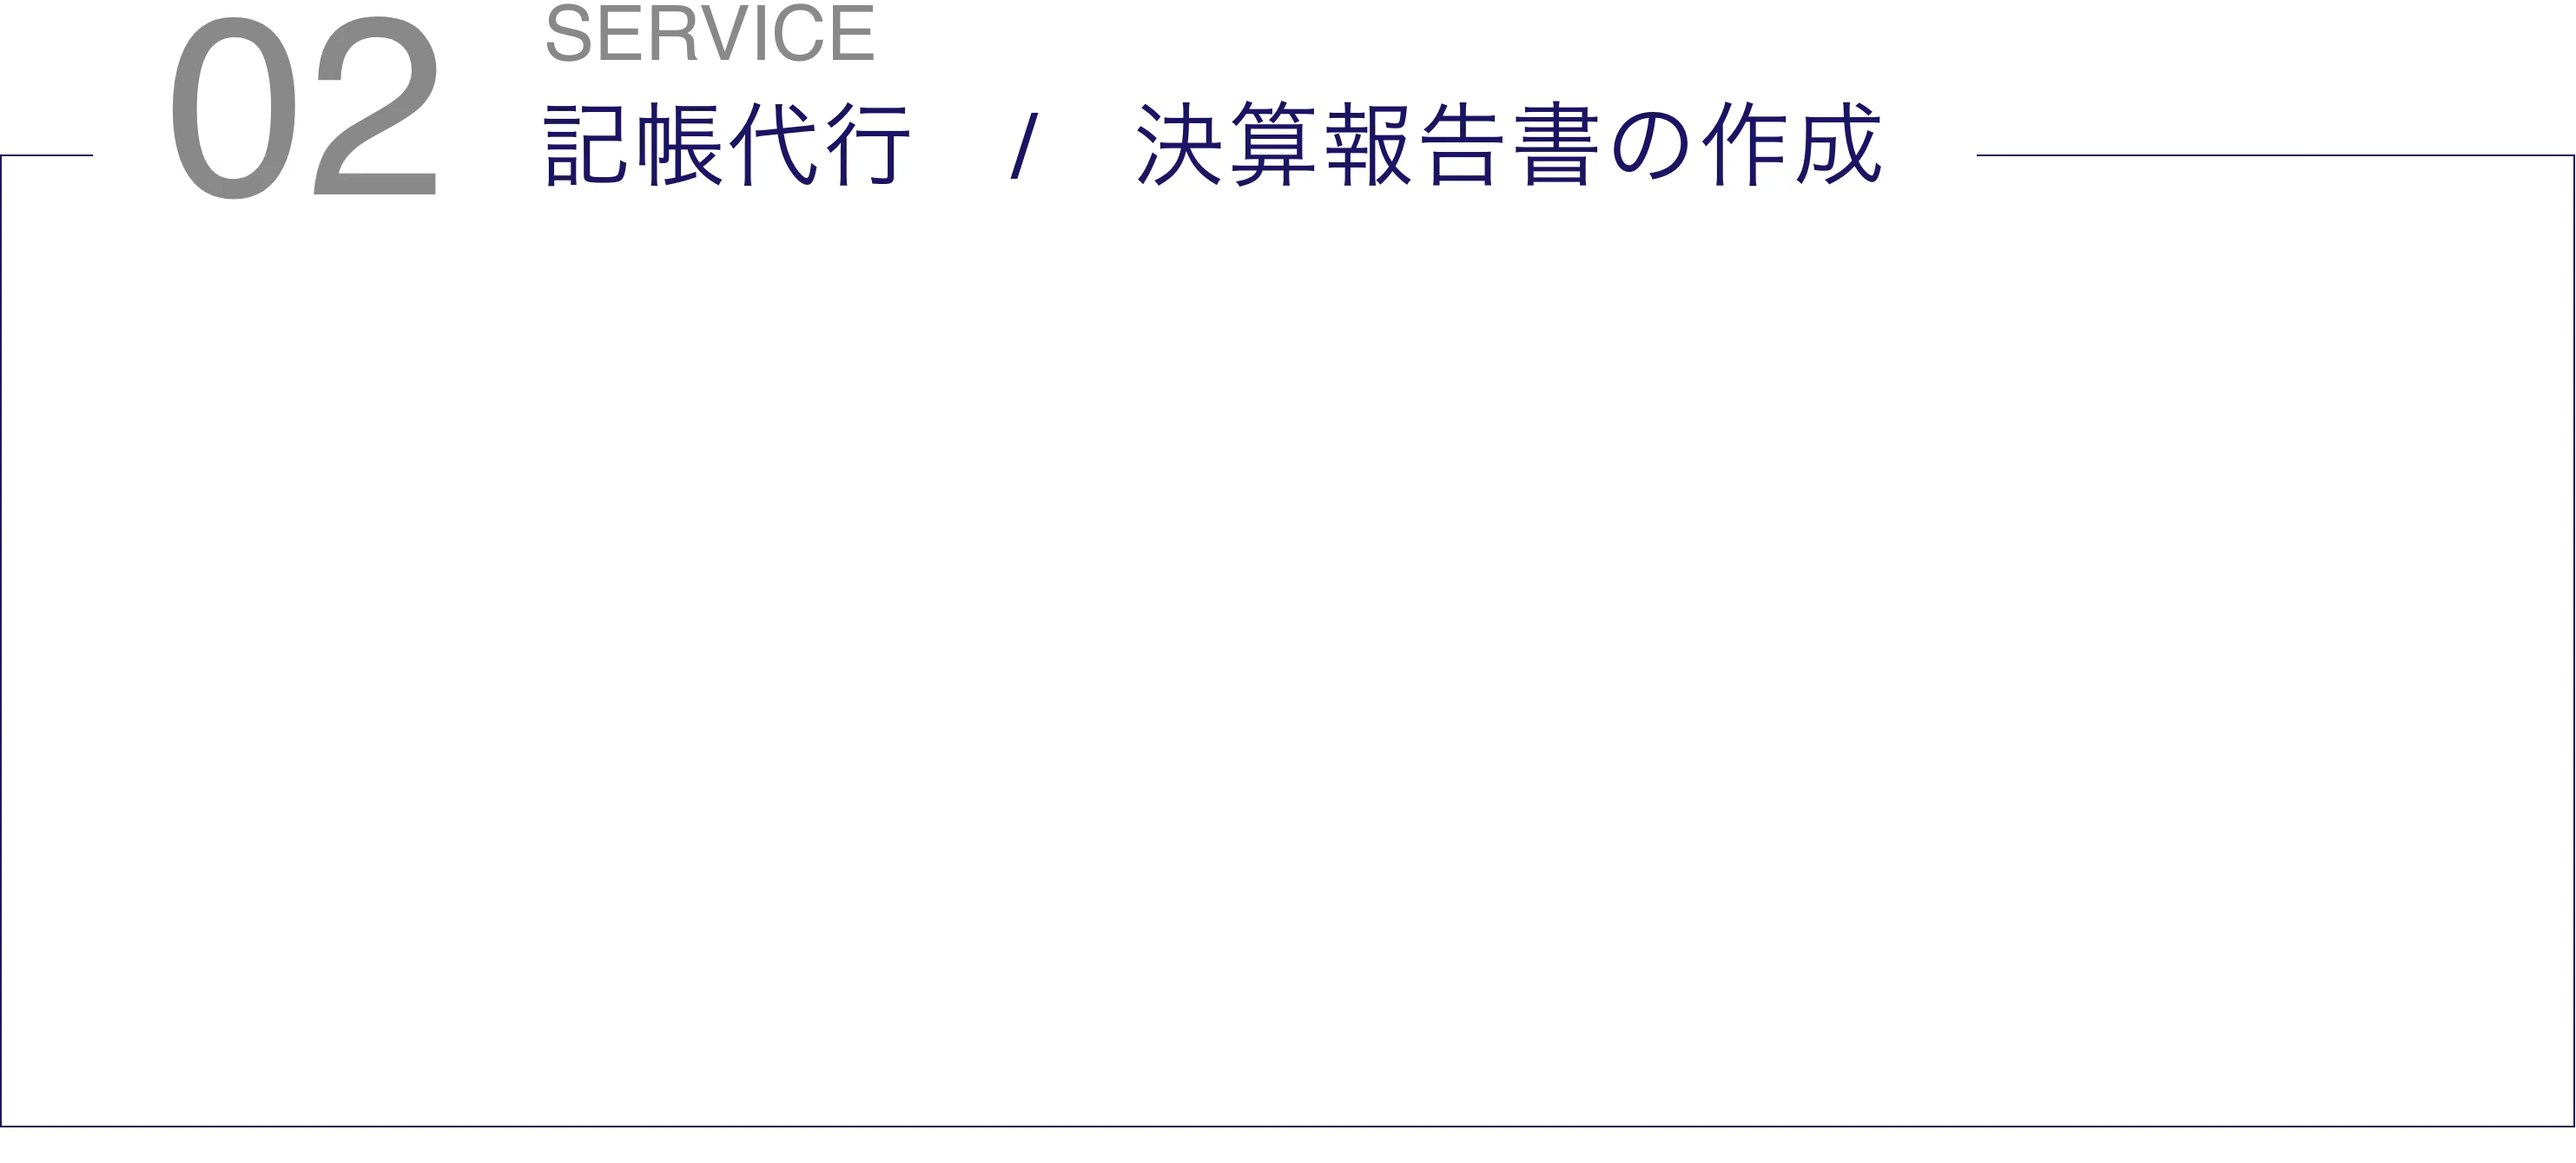
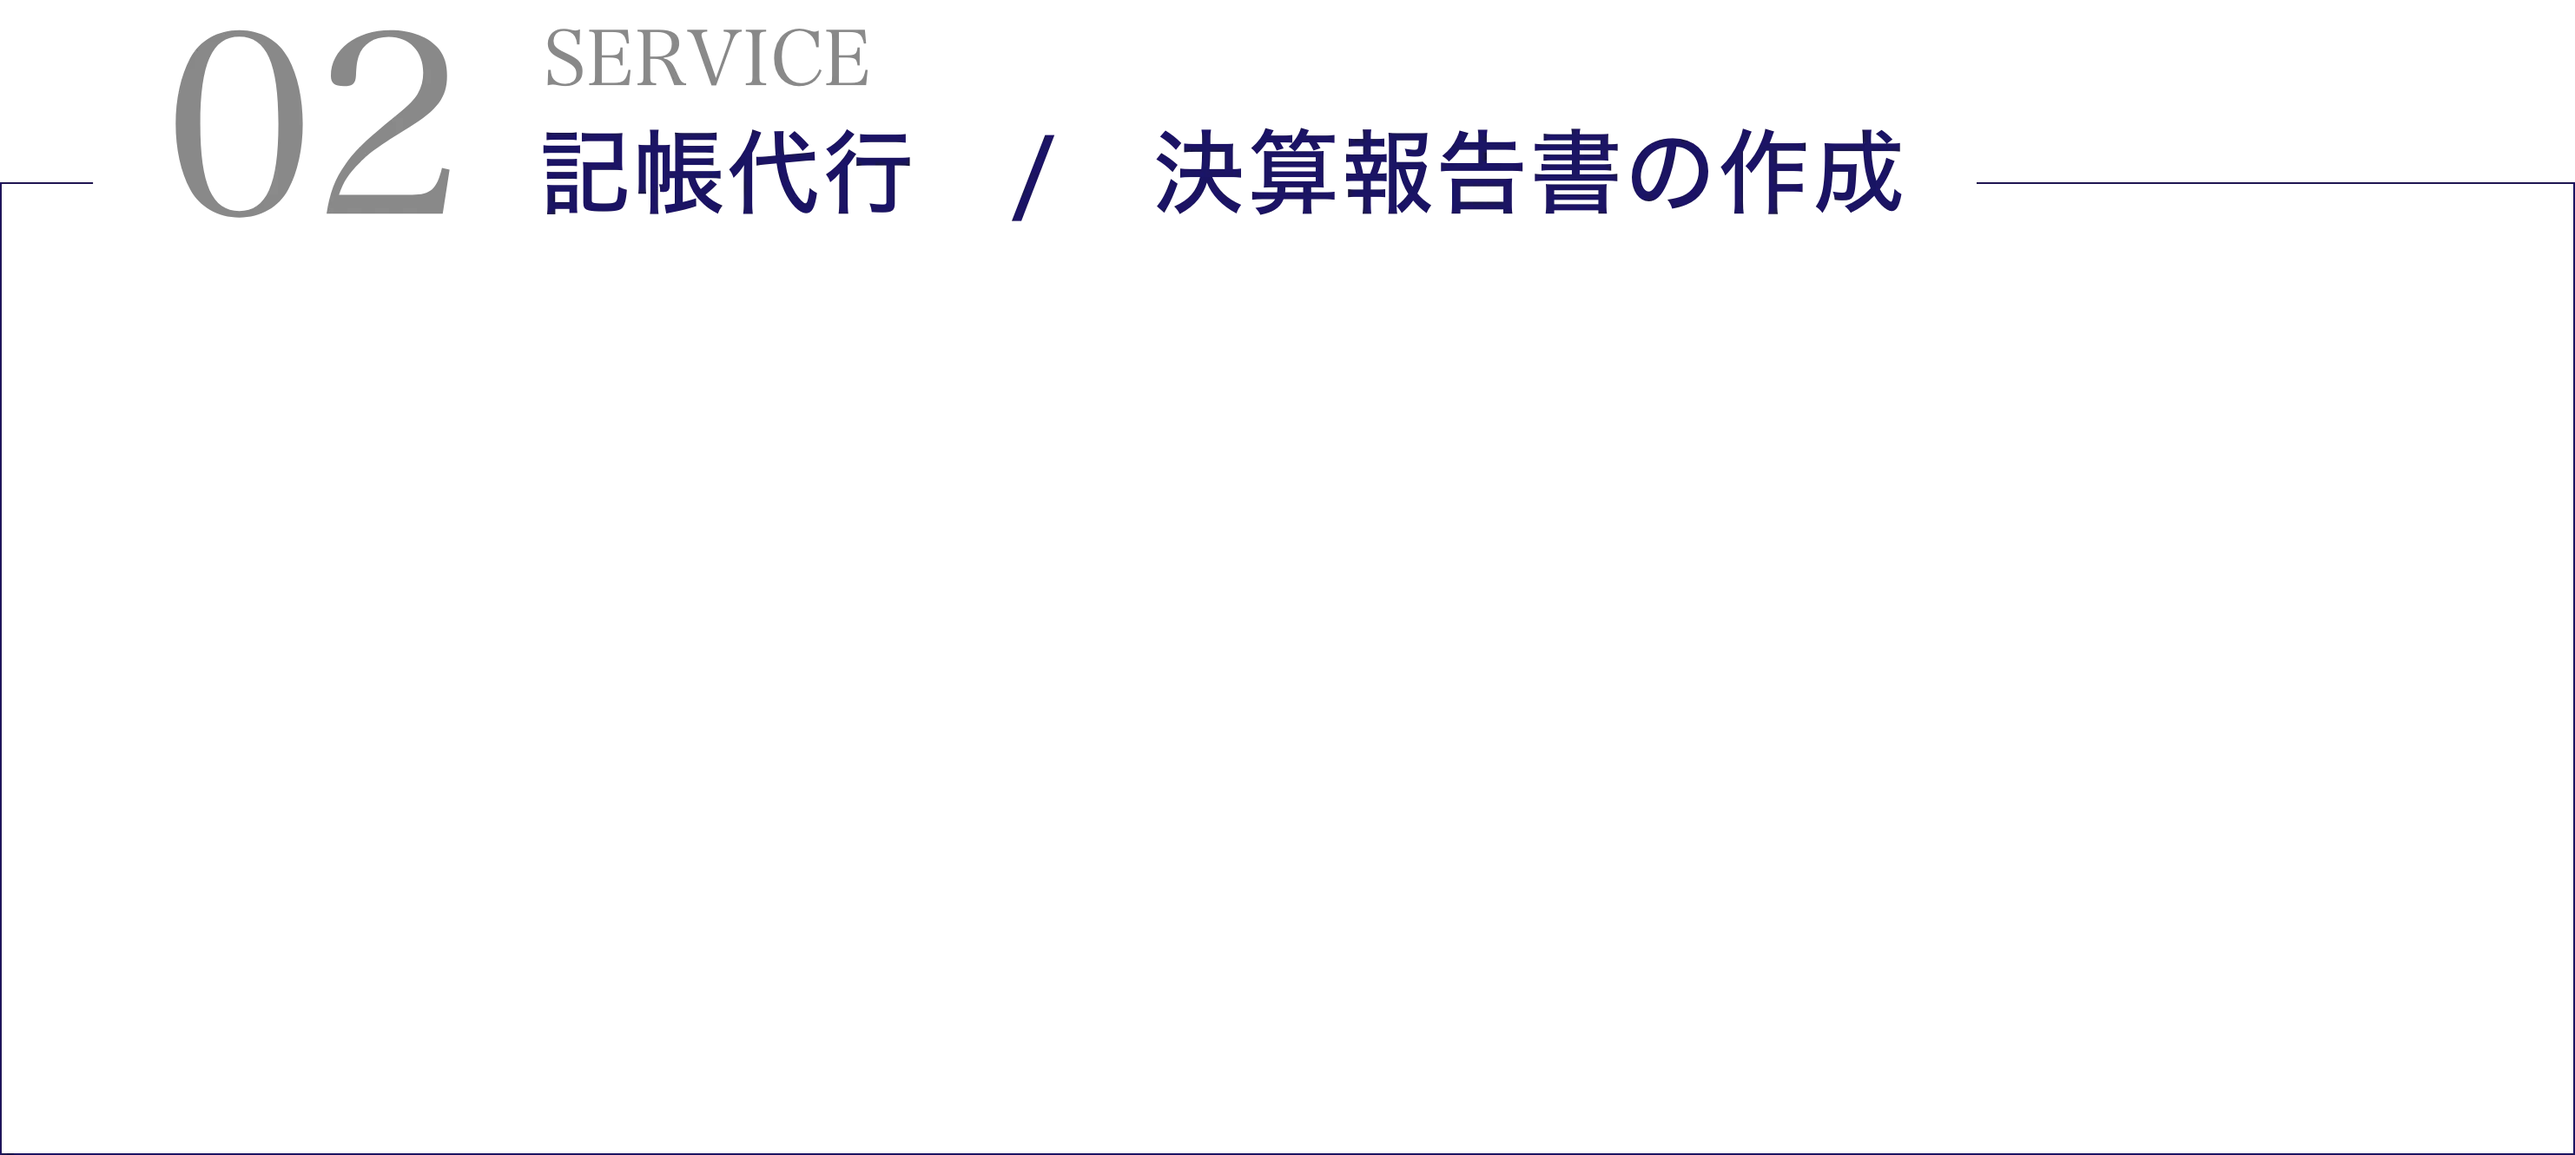
画像圧縮

diff --git a/index.html b/index.html
@@ -118,7 +118,7 @@
                 <p>当社には、大手監査法人出身の公認会計士や、東証プライム上場企業の財務部門でマネージャーを務めた<br>経験を持つスペシャリストが多数在籍しています。高い専門知識と豊富な実務経験を活かし、複雑かつ高度な経営課題にも対応できる体制を整えています。</p>
               </div>
               <div class="service__img">
-                <img src="./assets/image/service_img.png" alt="01税務顧問財務コンサル記帳代行,02決算報告書の作成,03税務申告書類の作成" width="1647" height="1537">
+                <img src="./assets/image/service_img.webp" alt="01税務顧問財務コンサル記帳代行,02決算報告書の作成,03税務申告書類の作成" width="1647" height="1537">
               </div>
             </div>
 
@@ -128,19 +128,19 @@
           <ul class="service__list pc">
             <li class="service__item fade-in">
               <div class="service__item-inner">
-                <img src="./assets/image/service_box01.png" alt="" width="2965" height="1331">
+                <img src="./assets/image/service_box01.webp" alt="" width="2965" height="1331">
                 <p>税務顧問では、日々の税務に関する不安や悩みを一つひとつ丁寧に解消し、お客様が安心して事業に専念できる環境を整えます。節税の可能性や税務対応については、単なるアドバイスにとどまらず、実際の実行まで責任を持ってサポートいたします。<br>また、税務調査などの突発的な対応が必要な場面でも、迅速かつ的確なサポートを行い、お客様にとって心強い味方となります。財務コンサルティングでは、会社の経営状況を数字の面から深く分析し、資金繰りや銀行融資、事業計画、事業承継といった具体的な課題に対して、実践的で効果的な提案を行います。</p>
               </div>
             </li>
             <li class="service__item fade-in">
               <div class="service__item-inner">
-                <img src="./assets/image/service_box02.png" alt="" width="2966" height="1340">
+                <img src="./assets/image/service_box02.webp" alt="" width="2966" height="1340">
                 <p>税務顧問で記帳代行では、日々の帳簿作成や経理作業をお任せいただくことで、手間を大幅に軽減し、正確で整理されたデータを提供します。<br><br>経営の状況を常に「見える化」し、安心して本業に集中できる環境を整えます。決算報告書の作成では、1年間の経営成績や財務状況を正確にまとめ、金融機関や関係先にも信頼される資料を作成します。わかりやすい説明を心がけ、経営判断に役立つ内容を提供します。</p>
               </div>
             </li>
             <li class="service__item fade-in">
               <div class="service__item-inner">
-                <img src="./assets/image/service_box03.png" alt="" width="2966" height="1330">
+                <img src="./assets/image/service_box03.webp" alt="" width="2966" height="1330">
                 <p>各種税務申告書の作成は、事業の正確な状況を反映し、法律に則って適正に行うことが求められます。私たちは法人税、所得税、消費税をはじめとする多様な申告業務において、豊富な知識と経験を活かし、確実で安心できる申告書を作成します。単に書類を作成するだけではなく、お客様の事業内容や状況を丁寧に把握し、最適な方法をご提案します。また、最新の税制や法改正に基づく適切なアドバイスを行い、リスクを未然に防ぐとともに、安心感のある税務対応を心がけています。</p>
               </div>
             </li>
